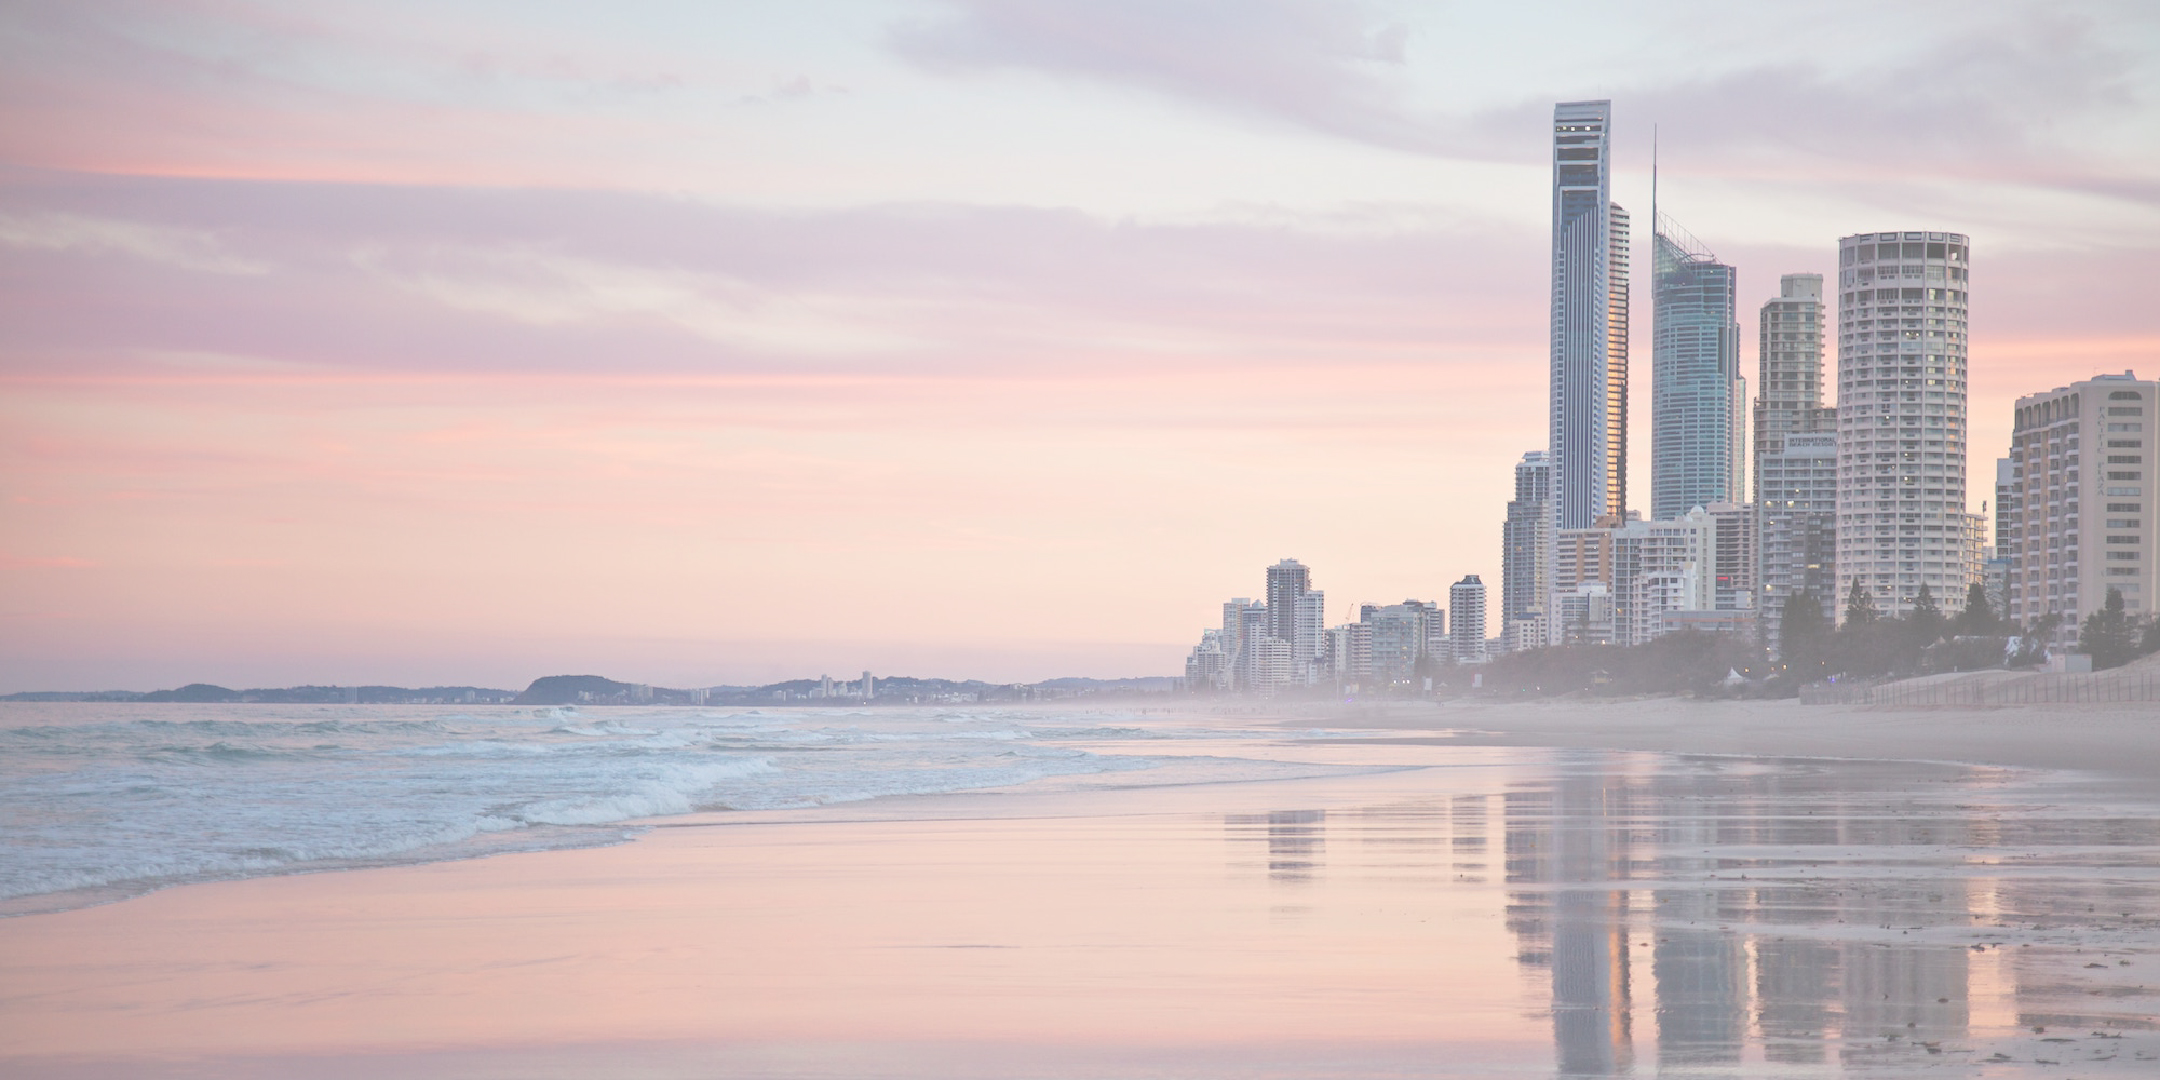
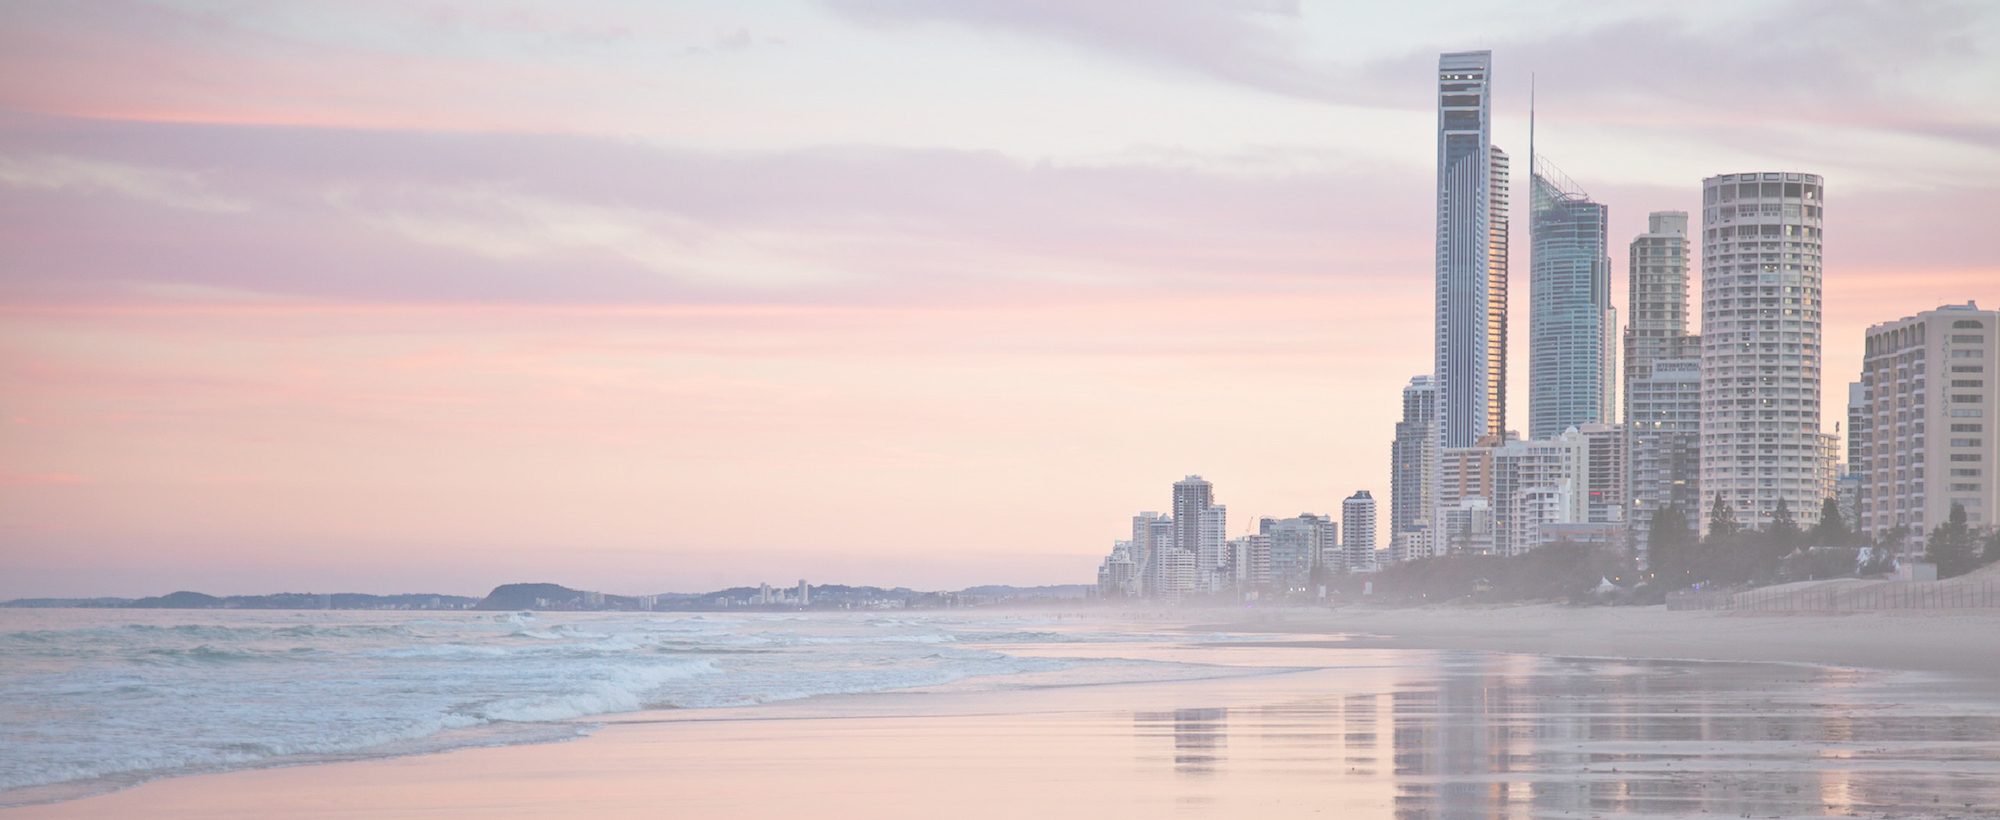
frontend updates

diff --git a/public/stylesheets/style.css b/public/stylesheets/style.css
@@ -11,41 +11,35 @@ body {
 	position: relative;
 }
 
-.maintitle {
-	position: absolute;
-	padding-top: 30px;
-	text-align: center;
-	font-family: 'Delius Unicase', sans-serif;
-	font-size: 50px;
+.nav {
+	padding: 15px;
+}
+
+.nav ul {
+	list-style-type: none;
+    margin: 0;
+    padding: 0;
+}
+
+.nav li {
+	font-size: 20px;
+	display: inline;
+	padding: 6px;
+}
+
+.nav a:link, a:visited, a:active {
 	color: black;
-	left: 0;
-	right: 0;
-	margin: auto;
+	text-decoration: none;
 }
 
-.headline {
-	position: absolute;
-	margin: 0 0 0 10px;
-	padding: 0;
-	z-index: 10;
-	color: black;
-}
-
-.headline h1 {
-	font-size: 25px;
-	padding-bottom: 0;
-	margin-bottom: 3px;
-}
-
-.headline h2 {
-	margin-top: 0;
-	padding-top: 0;
-	font-size: 22px;
+#name {
+	font-size: 30px;
+	padding-right: 25px;
 }
 
 .login {
 	position: fixed;
-	top: 45px;
+	top: 20px;
 	right: 10px;
 	z-index: 10;
 }
@@ -58,6 +52,7 @@ body {
 .login button {
 	background-color: #3b5998;
 	font-size: 20px;
+	font-family: "Helvetica", sans-serif;
 	border: 2px solid #3b5998;
 	padding: 5px 10px;
 	border-radius: 8px;
@@ -66,9 +61,13 @@ body {
 .imageslideshow {
   max-width: 200%;
   position: absolute;
-  margin: 0;
+  margin: 0 0 0 0;
   padding: 0;
   z-index: -1;
+}
+
+.imageslideshow img {
+	height: 40%;
 }
 
 .fade {
@@ -89,46 +88,42 @@ body {
 }
 
 .searchevent {
-	margin-top: 400px;
+	margin-top: 450px;
 	text-align: center;
 	position: relative;
 	color: black;
-	padding-top: 10px;
+	padding-top: 30px;
 	padding-bottom: 30px;
 	margin-left: 27%;
 	margin-right: 27%;
 	border-radius: 10px;
 }
 
-.searchevent h3 {
-	font-size: 28px;
-	margin-bottom: 10px;
-}
-
 #search {
-	font-size: 18px;
+	font-size: 14px;
 	width: 70%;
 	height: 30px;
 	border: 1px solid #bfbfbf;
 	border-radius: 10px;
 	padding: 2px 8px;
-	margin-right: 6px;
+	margin-right: 2px;
 }
 
 #submit {
 	border: 1px solid #bfbfbf;
-	border-radius: 10px;
+	border-radius: 6px;
 	padding: 8px 15px;
 	font-size: 15px;
 }
 
 
-.output {
+.events {
 	text-align: center;
-	margin-top: 200px;
+	margin-top: 100px;
+	padding-left: 40px;
 }
 
-.output h3 {
+.events h3 {
 	font-size: 30px;
-
+	text-align: left;
 }
